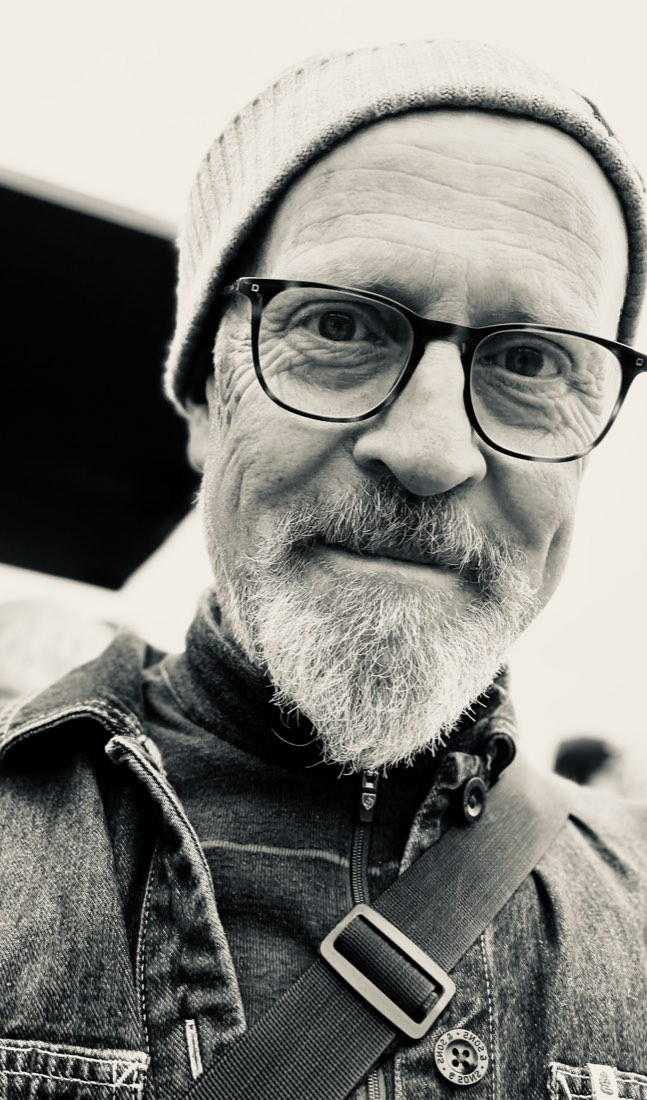
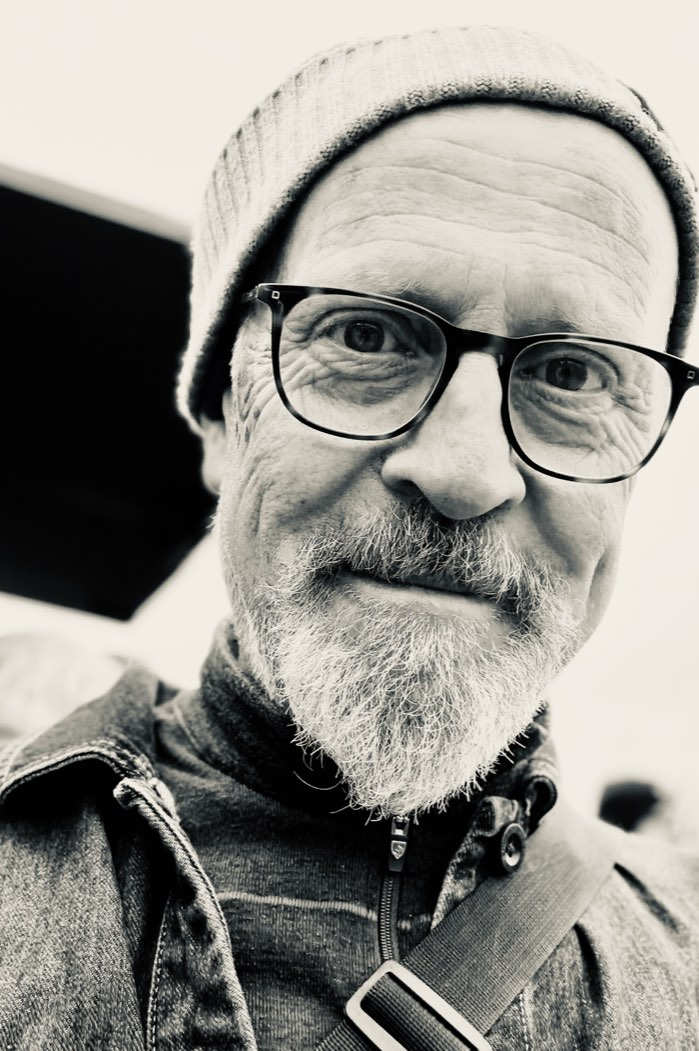
Swap in a less-cropped portrait
699x1051 rather than 647x1100. The panel beside the hero is taller than
either, so the image fills its height and gives up a little width — the
squarer source just means less of the face is thrown away doing it.

diff --git a/docs/assets/home.css b/docs/assets/home.css
@@ -201,7 +201,7 @@ body {
   width: 100%;
   height: 100%;
   object-fit: cover;
-  object-position: 50% 22%;
+  object-position: 50% 30%;
 }
 
 /* ---------- hero panel ---------- */
@@ -396,7 +396,7 @@ body {
     aspect-ratio: 4 / 5;
   }
 
-  .md-typeset .hero-photo img { object-position: 50% 15%; }
+  .md-typeset .hero-photo img { object-position: 50% 20%; }
 
   .md-typeset .grid.cards { grid-template-columns: 1fr; }
 }

diff --git a/README.md b/README.md
@@ -60,9 +60,10 @@ you add a role, tighten or compact another.
 
 Landing page copy lives in [`docs/index.md`](docs/index.md); its styling is in
 [`docs/assets/home.css`](docs/assets/home.css). The portrait is
-`docs/assets/headshot.jpg`, cropped tall (≈ 0.59) to match the panel beside the
-hero — swapping in a squarer image will crop hard, so re-cut it or adjust
-`object-position` in `.hero-photo img`. The résumé's layout is in
+`docs/assets/headshot.jpg`, a 2:3-ish portrait (699 × 1051). The panel beside the
+hero is taller than that, so the image fills its height and loses a little width;
+a squarer source instead gets cropped top and bottom. Reframe with
+`object-position` in `.hero-photo img` if you swap it. The résumé's layout is in
 [`assets/style.css`](assets/style.css), with print rules in the `@media print`
 block and the `@page` rule at the bottom.
 

diff --git a/docs/index.md b/docs/index.md
@@ -28,7 +28,7 @@ self-custody vault.
 </div>
 
 <div class="hero-photo">
-  <img src="assets/headshot.jpg" width="647" height="1100"
+  <img src="assets/headshot.jpg" width="699" height="1051"
        alt="Stephen McNamara">
 </div>
 
